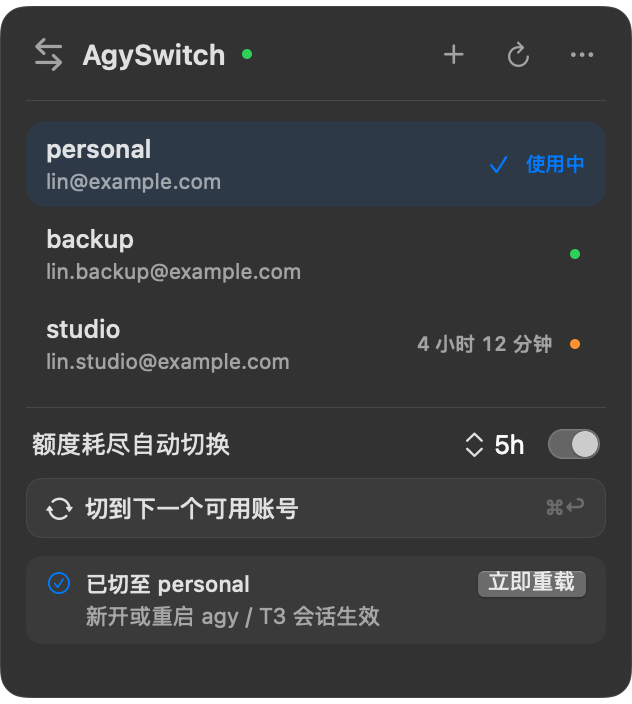
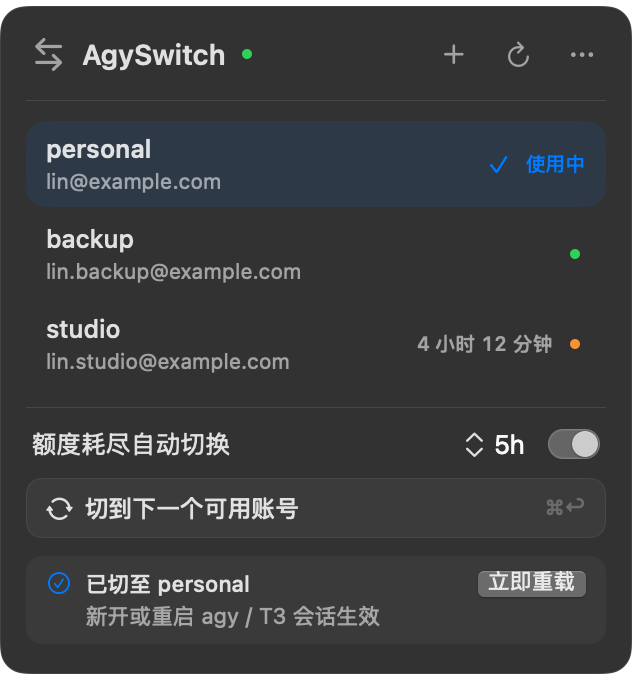
chore: remove quota notice menu item and tighten panel layout (v0.2.5)

diff --git a/Tests/AgySwitchUITests/MenuPopoverTests.swift b/Tests/AgySwitchUITests/MenuPopoverTests.swift
@@ -1,5 +1,4 @@
 import AgySwitchCore
-@testable import AgySwitch
 @testable import AgySwitchUI
 import AppKit
 import Combine
@@ -74,10 +73,8 @@ final class MenuPopoverTests: XCTestCase {
     }
 
     @MainActor
-    func testHostedPanelKeepsItsSizeThroughRefreshesBusyStatesAndFeedback() throws {
+    func testHostedPanelKeepsItsSizeThroughRefreshesBusyStatesAndFeedback() {
         _ = NSApplication.shared
-        // Enable SwiftUI accessibility nodes for the test host without starting an assistive client.
-        NSApp.accessibilitySetValue(true, forAttribute: .init(rawValue: "AXEnhancedUserInterface"))
         let anchor = NSWindow(contentRect: NSRect(x: 0, y: 0, width: 32, height: 32),
                               styleMask: [.borderless], backing: .buffered, defer: false)
         anchor.alphaValue = 0
@@ -132,25 +129,10 @@ final class MenuPopoverTests: XCTestCase {
             assertStable()
             model.feedback = .switchResult(target: String(repeating: "w", count: 48), changed: true, offersReload: true)
             assertStable()
-            let delegate = ApplicationDelegate(model: model)
-            let menu = MoreButton(model: model).makeMenu()
-            let displayLanguage = model.displayLanguage
-            let riskItem = try XCTUnwrap(menu.item(withTitle: displayLanguage[.quotaRiskMenu]))
-            XCTAssertTrue(riskItem.isEnabled)
-            XCTAssertEqual(riskItem.state, .off)
-            menu.performActionForItem(at: menu.index(of: riskItem))
-            XCTAssertEqual(model.feedback, MenuFeedback(.warning, .quotaRiskTitle, detail: .quotaRiskDetail))
-            assertStable()
-
-            let window = try XCTUnwrap(host.view.window)
-            let contentFrame = window.convertToScreen(host.view.convert(host.view.bounds, to: nil))
-            for label in [AppLabel.quotaRiskTitle, .quotaRiskDetail] {
-                let text = displayLanguage[label]
-                let frame = try XCTUnwrap(visibleStaticText(text, in: window), text)
-                XCTAssertTrue(contentFrame.insetBy(dx: -0.5, dy: -0.5).contains(frame), text)
-                XCTAssertGreaterThan(frame.height, 0, text)
-            }
-            withExtendedLifetime(delegate) {}
+            let menuTitles = MoreButton(model: model).makeMenu().items.map(\.title)
+            XCTAssertFalse(menuTitles.contains {
+                $0.localizedCaseInsensitiveContains("quota") || $0.contains("额度") || $0.contains("风控")
+            })
 
             model.feedback = nil
             assertStable()
@@ -166,25 +148,6 @@ final class MenuPopoverTests: XCTestCase {
             XCTAssertGreaterThan(withSave.height, compact.height)
             assertSize(settledSize(popover, host: host), equals: withSave)
         }
-    }
-
-    @MainActor
-    private func visibleStaticText(_ text: String, in element: Any) -> NSRect? {
-        guard let element = element as? NSObject else { return nil }
-        // SwiftUI's accessibility nodes expose these selectors without conforming to NSAccessibilityProtocol.
-        func attribute(_ key: String) -> Any? {
-            guard element.responds(to: NSSelectorFromString(key)) else { return nil }
-            return element.value(forKey: key)
-        }
-        let role = attribute("accessibilityRole") as? String
-        guard role != NSAccessibility.Role.scrollArea.rawValue else { return nil }
-        if role == NSAccessibility.Role.staticText.rawValue, attribute("accessibilityValue") as? String == text {
-            return (attribute("accessibilityFrame") as? NSValue)?.rectValue
-        }
-        for child in attribute("accessibilityChildren") as? [Any] ?? [] {
-            if let frame = visibleStaticText(text, in: child) { return frame }
-        }
-        return nil
     }
 
     @MainActor

diff --git a/Sources/AgySwitch/Application.swift b/Sources/AgySwitch/Application.swift
@@ -6,7 +6,7 @@ import UserNotifications
 
 @MainActor
 final class ApplicationDelegate: NSObject, NSApplicationDelegate, NSPopoverDelegate {
-    private let model: MenuModel
+    private let model = MenuModel()
     private let clientReloader = ClientReloader(processes: LocalProcessControl(), desktop: WorkspaceDesktopControl())
     private let autoReloadKey = "autoReloadClientsOnSwitch"
     private var clientReloadTask: Task<Void, Never>?
@@ -20,12 +20,6 @@ final class ApplicationDelegate: NSObject, NSApplicationDelegate, NSPopoverDeleg
     private var refreshFeedbackRequested = false
     private var language: DisplayLanguage { model.displayLanguage }
 
-    init(model: MenuModel = MenuModel()) {
-        self.model = model
-        super.init()
-        model.send = { [weak self] in self?.handle($0) }
-    }
-
     func applicationDidFinishLaunching(_ notification: Notification) {
         preferences.register(defaults: [autoReloadKey: false, "autoWatchEnabled": false, "defaultCooldownSeconds": 18_000,
                                         AppLanguage.preferenceKey: AppLanguage.system.rawValue])
@@ -35,6 +29,7 @@ final class ApplicationDelegate: NSObject, NSApplicationDelegate, NSPopoverDeleg
         let cooldown = preferences.integer(forKey: "defaultCooldownSeconds")
         if [18_000, 10_800, 3_600].contains(cooldown) { model.cooldown = cooldown }
         model.opensAtLogin = (try? loginItem.enabled()) ?? false
+        model.send = { [weak self] in self?.handle($0) }
         work.onUpdate = { [weak self] in self?.watcherUpdated($0) }
         NotificationCenter.default.addObserver(self, selector: #selector(systemLocaleChanged),
                                                name: NSLocale.currentLocaleDidChangeNotification, object: nil)
@@ -99,8 +94,6 @@ final class ApplicationDelegate: NSObject, NSApplicationDelegate, NSPopoverDeleg
 
     private func handle(_ action: MenuAction) {
         switch action {
-        case .showQuotaRiskNotice:
-            show(MenuFeedback(.warning, .quotaRiskTitle, detail: .quotaRiskDetail))
         case .setAutoReload(let enabled):
             model.autoReload = enabled
             preferences.set(enabled, forKey: autoReloadKey)

diff --git a/Sources/AgySwitchCore/Localization.swift b/Sources/AgySwitchCore/Localization.swift
@@ -99,7 +99,6 @@ public struct LocalizedText: Equatable {
 
 public enum AppLabel: CaseIterable {
     case autoReload, reloadMenu, reloadClients, reloadingClients, reloadResult
-    case quotaRiskMenu, quotaRiskTitle, quotaRiskDetail
     case language, followSystem
     case listening, listenerStopped, refresh
     case enableLoginItem, disableLoginItem, openLogs, inspect, quit, more
@@ -115,11 +114,6 @@ public enum AppLabel: CaseIterable {
 
     public var text: LocalizedText {
         switch self {
-        case .quotaRiskMenu: return .init("Quota Check Disabled (Safety)", "额度查询已停用（防风控）")
-        case .quotaRiskTitle: return .init("Internal quota API check removed", "已移除内部额度接口查询")
-        case .quotaRiskDetail:
-            return .init("Google warns calling internal quota APIs may flag accounts. Check limits in official clients.",
-                         "Google 提示调用内部配额接口可能触发账号标记，请在官方客户端查看额度")
         case .autoReload: return .init("Auto-Reload Clients on Switch", "切号后自动重载客户端")
         case .reloadMenu: return .init("Reload agy & Desktop", "重载 agy 与桌面版")
         case .reloadClients: return .init("Reload Clients", "立即重载")

diff --git a/Sources/AgySwitchUI/MenuPopoverView.swift b/Sources/AgySwitchUI/MenuPopoverView.swift
@@ -3,7 +3,7 @@ import SwiftUI
 
 public enum MenuAction {
     case refresh, checkLogin, inspect, openLogs, toggleLoginItem, quit
-    case reloadClients, setAutoReload(Bool), showQuotaRiskNotice
+    case reloadClients, setAutoReload(Bool)
     case beginAddAccount
     case save(alias: String, email: String)
     case select(String), next, rename(id: String, alias: String), remove(String)
@@ -461,7 +461,7 @@ public struct MenuPopoverView: View {
                 }
             }
             .frame(maxWidth: .infinity, alignment: .leading)
-            .frame(height: 60, alignment: .topLeading)
+            .frame(height: 48, alignment: .topLeading)
         }
     }
 
@@ -587,7 +587,6 @@ struct MoreButton: View {
             item.isEnabled = enabled
             menu.addItem(item)
         }
-        add(.quotaRiskMenu, .showQuotaRiskNotice)
         add(.autoReload, .setAutoReload(!model.autoReload), checked: model.autoReload)
         add(.reloadMenu, .reloadClients, enabled: !model.busy)
         menu.addItem(.separator())

diff --git a/Tests/AgySwitchCoreTests/LocalizationTests.swift b/Tests/AgySwitchCoreTests/LocalizationTests.swift
@@ -31,18 +31,6 @@ final class LocalizationTests: XCTestCase {
         }
     }
 
-    func testQuotaRiskLabels() {
-        for (label, english, chinese) in [
-            (AppLabel.quotaRiskMenu, "Quota Check Disabled (Safety)", "额度查询已停用（防风控）"),
-            (.quotaRiskTitle, "Internal quota API check removed", "已移除内部额度接口查询"),
-            (.quotaRiskDetail, "Google warns calling internal quota APIs may flag accounts. Check limits in official clients.",
-             "Google 提示调用内部配额接口可能触发账号标记，请在官方客户端查看额度")
-        ] {
-            XCTAssertEqual(DisplayLanguage.en[label], english)
-            XCTAssertEqual(DisplayLanguage.zhHans[label], chinese)
-        }
-    }
-
     func testReloadLabelsAndResultVariants() {
         for (label, english, chinese) in [
             (AppLabel.autoReload, "Auto-Reload Clients on Switch", "切号后自动重载客户端"),

diff --git a/Package.swift b/Package.swift
@@ -14,6 +14,6 @@ let package = Package(
         .executableTarget(name: "AgySwitch", dependencies: ["AgySwitchCore", "AgySwitchUI"]),
         .executableTarget(name: "AgySwitchPreview", dependencies: ["AgySwitchUI"]),
         .testTarget(name: "AgySwitchCoreTests", dependencies: ["AgySwitchCore"]),
-        .testTarget(name: "AgySwitchUITests", dependencies: ["AgySwitch", "AgySwitchCore", "AgySwitchUI"])
+        .testTarget(name: "AgySwitchUITests", dependencies: ["AgySwitchCore", "AgySwitchUI"])
     ]
 )

diff --git a/README.md b/README.md
@@ -2,12 +2,9 @@
 
 English | [简体中文](README.zh-CN.md)
 
-> **AgySwitch** (`v0.2.4`) is an ultra-lightweight (**~2.5 MB**), **100% zero-network** native macOS menu bar app built with pure Swift & SwiftUI for switching multiple **Google Antigravity CLI (`agy`)** accounts via lossless macOS Keychain snapshots—featuring **one-click account capture (`+`)**, **instant single-click or `⌘↩` switching**, **one-click tri-client reload** (`Antigravity.app` + T3 Code `agy acp` + terminal `agy`), **automatic quota-exhaustion switching** via passive local log monitoring, **zero third-party dependencies**, **no proxy or OAuth gateway**, and a **built-in English & Simplified Chinese UI** (system-following or instant in-menu switch).
+> **AgySwitch** (`v0.2.5`) is an ultra-lightweight (**~2.5 MB**), **100% zero-network** native macOS menu bar app built with pure Swift & SwiftUI for switching multiple **Google Antigravity CLI (`agy`)** accounts via lossless macOS Keychain snapshots—featuring **one-click account capture (`+`)**, **instant single-click or `⌘↩` switching**, **one-click tri-client reload** (`Antigravity.app` + T3 Code `agy acp` + terminal `agy`), **automatic quota-exhaustion switching** via passive local log monitoring, **zero third-party dependencies**, **no proxy or OAuth gateway**, and a **built-in English & Simplified Chinese UI** (system-following or instant in-menu switch).
 
 **AgySwitch** sits quietly in your macOS menu bar (`⇄`) and makes multi-account `agy` workflows effortless. Whether you rotate two or three **Google AI Pro** accounts (especially during Black Friday or promotional pricing) to achieve near-**Ultra** effective quota capacity, or separate work and personal subscriptions, AgySwitch captures and switches local Keychain credentials in a single click or shortcut and automatically rotates to the next available account when a session hits a rate limit—with **zero outbound network requests**, no proxy gateway, no background polling, and zero changes to your `agy` settings, MCP servers, skills, or conversation history.
-
-> [!IMPORTANT]
-> **Security Update in `v0.2.4` (100% Zero-Network Restored)**: Google has warned external tools (e.g., T3 Code PR #43026) that Antigravity only supports the official ACP protocol externally, and querying non-public internal quota endpoints (`cloudcode-pa.googleapis.com`) may cause user Google accounts to be flagged. To keep your accounts completely safe, **`v0.2.4` removes all internal quota API query and `URLSession` code**, restoring `Sources/` to **100% verifiable zero network requests**. The menu bar `⋯` entry now serves as a **"Quota Check Disabled (Safety)"** notice directing you to check quotas inside the official Antigravity client. **All `v0.2.2` and `v0.2.3` users are strongly encouraged to upgrade immediately.**
 
 ---
 
@@ -38,8 +35,8 @@ Present a concise security audit report with file and line references and wait f
 
 ### Option 3: Manual Download
 
-- 📦 [**Download DMG Installer (`AgySwitch-v0.2.4-macos-arm64.dmg`)**](https://github.com/wanghao-SunSky/AgySwitch/releases/download/v0.2.4/AgySwitch-v0.2.4-macos-arm64.dmg)
-- 🗂 [**Download ZIP Archive (`AgySwitch-v0.2.4-macos-arm64.zip`)**](https://github.com/wanghao-SunSky/AgySwitch/releases/download/v0.2.4/AgySwitch-v0.2.4-macos-arm64.zip)
+- 📦 [**Download DMG Installer (`AgySwitch-v0.2.5-macos-arm64.dmg`)**](https://github.com/wanghao-SunSky/AgySwitch/releases/download/v0.2.5/AgySwitch-v0.2.5-macos-arm64.dmg)
+- 🗂 [**Download ZIP Archive (`AgySwitch-v0.2.5-macos-arm64.zip`)**](https://github.com/wanghao-SunSky/AgySwitch/releases/download/v0.2.5/AgySwitch-v0.2.5-macos-arm64.zip)
 - 🔗 [**GitHub Releases & `SHA256SUMS.txt`**](https://github.com/wanghao-SunSky/AgySwitch/releases/latest)
 
 **First Launch Note (Manual Browser Downloads Only)**: Because AgySwitch is distributed with local ad-hoc signing rather than a paid Apple Developer ID certificate, macOS Gatekeeper may quarantine archives downloaded via a web browser. If macOS says the app is "damaged" or "cannot be verified" after dragging it to `/Applications`, clear the browser quarantine attribute once:
@@ -64,11 +61,11 @@ xattr -cr /Applications/AgySwitch.app
 
 Heavy daily usage of frontier models in Google Antigravity CLI (`agy`) quickly exhausts a single account's 5-hour or weekly quota window. Many developers pair two or three **Google AI Pro** accounts (especially when promotional or Black Friday discounts make multi-Pro setups much more cost-effective than a single Ultra tier) and rotate them across coding sessions. Here is how **AgySwitch** compares to local proxy gateways and manual `/logout` rotation:
 
-| Dimension | **AgySwitch (`v0.2.4`)** | Local Proxy / OAuth Gateway Tools | Manual `/logout` & Re-login |
+| Dimension | **AgySwitch (`v0.2.5`)** | Local Proxy / OAuth Gateway Tools | Manual `/logout` & Re-login |
 | :--- | :--- | :--- | :--- |
 | **Traffic Path** | **100% stock `agy` direct connection** | Routed through a local proxy / custom gateway | Stock `agy` direct connection |
 | **Network Activity** | **100% zero network requests** (pure local Keychain & read-only log file operations) | Continuous background polling & token proxying | None |
-| **Account Safety** | **Zero non-ACP internal API calls** (no `cloudcode-pa.googleapis.com` polling or custom OAuth client) | Often queries internal APIs or proxies OAuth tokens | Official browser OAuth |
+| **Authentication** | **Official `agy` browser OAuth** (lossless local Keychain snapshots only) | Custom OAuth clients or proxied tokens | Official browser OAuth |
 | **Switching Speed** | Instant single click or `⌘↩` in menu bar (accelerated by Keychain metadata version caching) | Automatic proxy routing | `/logout` + browser OAuth flow every time |
 | **Client Reload** | One-click or automatic reload across **`Antigravity.app` + T3 Code `agy acp` + terminal `agy`** | Proxy-level hot swap | Manual app/terminal restart |
 | **Auto-Switch on Quota Exhaustion** | Yes (passive local log tailing, zero network polling) | Yes (gateway error interception) | No |
@@ -97,12 +94,8 @@ Heavy daily usage of frontier models in Google Antigravity CLI (`agy`) quickly e
   - **Smart Cooldown Duration**: Parses the official quota reset timestamp from the log whenever available; otherwise falls back to your selected default cooldown (`5h` / `3h` / `1h`).
   - **Native Notification**: Automatically activates the next available account and posts a macOS system notification.
 
-### 3. 100% Zero-Network Account Safety by Design
-- **Verifiable Zero Outbound Traffic**: Every file under `Sources/` performs strictly local macOS Keychain and file system operations—no `URLSession`, no sockets, no background telemetry, and no calls to non-public internal quota endpoints.
-- **In-App Safety Notice**: The top-right `⋯` menu includes a **"Quota Check Disabled (Safety)"** entry explaining why direct internal quota API queries are disabled to prevent Google account flagging, reminding you to check remaining quotas directly inside the official Antigravity client.
-
-### 4. Ultra-Lightweight Native macOS Menu Bar App
-- Built with **100% pure Swift, SwiftUI, and AppKit** with **zero third-party dependencies**.
+### 3. Ultra-Lightweight Native macOS Menu Bar App (100% Zero-Network)
+- Built with **100% pure Swift, SwiftUI, and AppKit** with **zero third-party dependencies** and **zero network code** (`Sources/` makes strictly local macOS Keychain and file system calls—no `URLSession`, no sockets, no background telemetry).
 - The entire `AgySwitch.app` bundle is only **~2.5 MB** (**~1.6 MB** main executable), runs strictly as a menu bar agent (`LSUIElement`, no Dock icon clutter), features a compact panel layout with unified native hover feedback across top-bar controls, adapts automatically to macOS Light and Dark appearances, and supports one-click **Launch at Login**.
 - **Built-in Bilingual UI (English & 简体中文)**: Automatically follows your macOS system language by default, or lets you switch between English and Simplified Chinese instantly from the top-right `⋯` menu without restarting.
 
@@ -124,9 +117,6 @@ AgySwitch touches only the single macOS Keychain item responsible for `agy` auth
 ---
 
 ## Frequently Asked Questions (FAQ)
-
-**Q: Why was hover quota inspection removed in `v0.2.4`?**  
-Google has explicitly advised external clients (see T3 Code PR #43026) that Antigravity only supports the official ACP protocol externally, and directly calling internal non-ACP quota endpoints (`cloudcode-pa.googleapis.com`) can cause user Google accounts to be flagged. To prioritize account safety, `v0.2.4` removes all quota query and `URLSession` code so AgySwitch operates with **100% zero network requests**. You can check remaining quota directly inside the official Antigravity client, and click **"Quota Check Disabled (Safety)"** in the `⋯` menu anytime for details.
 
 **Q: Why does a running `agy` session or desktop app still use the old account right after I switch?**  
 `agy`, `Antigravity.app`, and T3 Code's `agy acp` backend read the macOS Keychain credential into memory when a session starts. After switching accounts in AgySwitch, simply click **Reload Clients** on the prompt banner (or enable **Auto-Reload Clients on Switch** in the `⋯` menu) to automatically restart `Antigravity.app`, recycle T3 Code's `agy acp` backend without closing your windows, and stop stale terminal `agy` processes.
